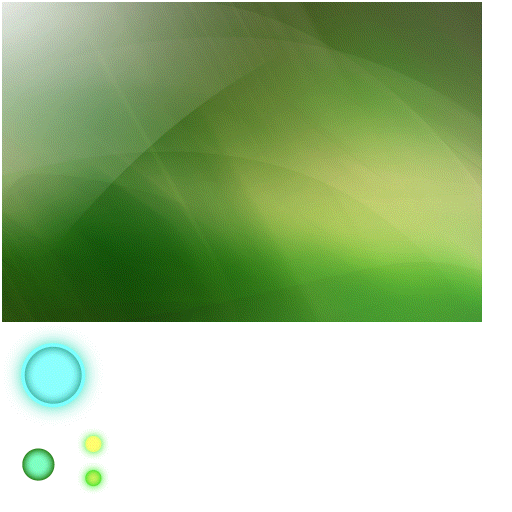
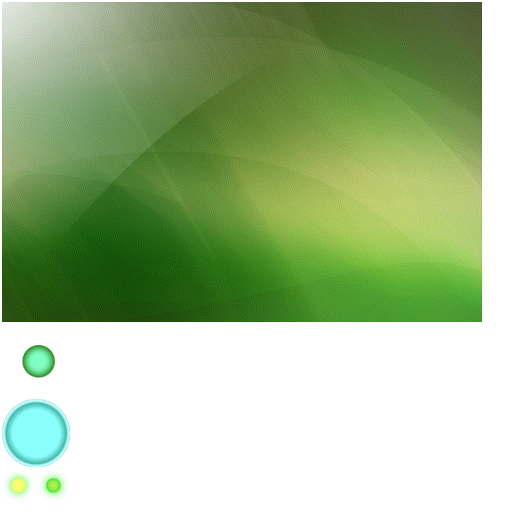
ExitCell class is ready. Есть ошибка с изменением цвета дочерней клетки при соприкосновении с выходом. Результат разный - с джоинтом и без

Changed region(s): [[0.0, 0.625, 0.2188, 0.9688]]

diff --git a/Gen/ChildCell.mm b/Gen/ChildCell.mm
@@ -10,6 +10,8 @@
 
 @implementation ChildCell
 
+GameCharacter *exitCellSprite;
+
 - (void)createBodyAtLocation:(CGPoint)location
 {
     b2BodyDef bodyDef;
@@ -23,7 +25,7 @@
     
     b2FixtureDef fixtureDef;
     b2CircleShape shape;
-    shape.m_radius = self.contentSize.width * 0.25f / PTM_RATIO;
+    shape.m_radius = self.contentSize.width * 0.22f / PTM_RATIO;
     fixtureDef.shape = &shape;
     fixtureDef.filter.categoryBits = kChildCellFilterCategory;
     fixtureDef.density = 8.0;
@@ -41,13 +43,38 @@
         return;
     }
     if ([self numberOfRunningActions] == 0) {
-        if (characterHealth <= 0) {
+        if (characterHealth <= 0 && characterState != kStateSoul) {
             [self changeState:kStateDead];
         }
     }
     
+    if (characterState == kStateBeforeSoul) {
+        if (body == nil) {
+            [self changeState:kStateSoul];
+        }
+    }
+    
     if (characterState == kStateSoul) {
-        self.markedForDestruction = YES;
+        if (body == nil && [self numberOfRunningActions] == 0) {
+            
+            // Уменьшает клетку
+            self.scale = 0.7;
+            
+            // Определяем следующую точку для произвольного движения внутри выхода
+            if (!exitCellSprite) {
+                exitCellSprite = (GameCharacter*) [[self parent] getChildByTag:kExitCellSpriteTagValue];
+            }
+            CGRect exitBoundingBox = [exitCellSprite adjustedBoudingBox];
+            int yPositionInExitCell = exitBoundingBox.origin.y + random() % (int)exitBoundingBox.size.height;
+            int xPositionInExitCell = exitBoundingBox.origin.x + random() % (int)exitBoundingBox.size.width;
+            
+            // Рэндомно двигаем клетки внутри выхода
+            id randomMove = [CCSequence actions:
+                              [CCMoveTo actionWithDuration:2.5f position:ccp(xPositionInExitCell, yPositionInExitCell)],
+                              [CCDelayTime actionWithDuration:0.1f],
+                              nil];
+            [self runAction:randomMove];
+        }
     }
 }
 
@@ -117,9 +144,29 @@
             break;
         }
             
-        case kStateSoul:
-            // Клетка ударилась об выход и должна уничтожить физ тело и сменить спрайт и дрыгаться внутри выхода
+        case kStateBeforeSoul:
+            self.markedForDestruction = YES;
             break;
+            
+        case kStateSoul:
+        {
+            // Клетка ударилась об выход и должна уничтожить физ тело и сменить спрайт и дрыгаться внутри выхода
+            [self setCharacterHealth:0];
+            
+            // 1. Меняем цвет у умерших клеток
+//            self.blendFunc = (ccBlendFunc) {GL_ZERO, GL_ONE_MINUS_SRC_ALPHA}; // Т.к. спрайт из batchnode, то применять нужно ко всему батчноду
+            self.color = ccc3(255, 0, 253);
+            self.opacity = 200;
+            
+            
+            // 2. Двигаем мертвые клетки (души) в центр выхода
+            int timeToMove = random() % 3 + 1;   // 1-4 sec
+            exitCellSprite = (GameCharacter*) [[self parent] getChildByTag:kExitCellSpriteTagValue];
+            CCEaseBounceIn *moveInsideElastic = [CCEaseBounceIn actionWithAction:[CCMoveTo actionWithDuration:timeToMove position:exitCellSprite.position]];
+            [self runAction:moveInsideElastic];
+
+            break;
+        }
             
         case kStateDead:
             // Клетка умирает от первого же прикосновения
@@ -128,6 +175,12 @@
         default:
             break;
     }
+}
+
+- (void)dealloc
+{
+    exitCellSprite = nil;
+    [super dealloc];
 }
 
 - (BOOL)mouseJointBegan

diff --git a/Gen/ContactListener.mm b/Gen/ContactListener.mm
@@ -25,10 +25,10 @@ void ContactListener::BeginContact(b2Contact* contact)
     
     // Обработка столкновениий ExitCell с ChildCell
     if (spriteA.gameObjectType == kExitCellType) {
-        [spriteB changeState:kStateSoul];
+        [spriteB changeState:kStateBeforeSoul];
     }
     else if (spriteB.gameObjectType == kExitCellType) {
-        [spriteA changeState:kStateSoul];
+        [spriteA changeState:kStateBeforeSoul];
     }
 }
 
@@ -38,10 +38,24 @@ void ContactListener::EndContact(b2Contact* contact)
     Box2DSprite *spriteB = (Box2DSprite*)contact->GetFixtureB()->GetBody()->GetUserData();
     
     // Обработка столкновениий сенсора ParentCell с ChildCell
-    if (spriteA.gameObjectType == kParentCellType) {
+    if (spriteA.gameObjectType == kParentCellType && spriteB.characterState != kStateBeforeSoul) {
         [spriteB changeState:kStateDisconnecting];
     }
-    else if (spriteB.gameObjectType == kParentCellType) {
+    else if (spriteB.gameObjectType == kParentCellType && spriteA.characterState != kStateBeforeSoul) {
         [spriteA changeState:kStateDisconnecting];
     }
+}
+
+void ContactListener::PreSolve(b2Contact* contact, const b2Manifold* oldManifold)
+{
+    Box2DSprite *spriteA = (Box2DSprite*)contact->GetFixtureA()->GetBody()->GetUserData();
+    Box2DSprite *spriteB = (Box2DSprite*)contact->GetFixtureB()->GetBody()->GetUserData();
+    
+    if (spriteA.gameObjectType == kExitCellType) {
+        contact->SetEnabled(false);
+    }
+    else if (spriteB.gameObjectType == kExitCellType) {
+        contact->SetEnabled(false);
+    }
+
 }

diff --git a/Gen/Scene1.mm b/Gen/Scene1.mm
@@ -40,20 +40,18 @@
         [background setPosition:screenCenter];
         [self addChild:background z:-2];
         
-        // add ChildCells
-        for (int i = 0; i < kChildCellStartNum; i++) {
-            [self createChildCellAtLocation:ccp(screenCenter.x + i * 5, screenCenter.y + i * 5)];
-        }
-        
         // add ParentCell (main hero will always be under the finger)
         parentCell = [[[ParentCell alloc] initWithWorld:world atLocation:ccp(100, 100)] autorelease];
         [sceneSpriteBatchNode addChild:parentCell z:10 tag:kParentCellSpriteTagValue];
         
         // add ExitCell (выход) в который нужно загнать клетки, чтобы их собрать и пройти уровень
         exitCell = [[[ExitCell alloc] initWithWorld:world atLocation:ccp(screenSize.width*0.9, screenSize.height*0.1)] autorelease];
-        [sceneSpriteBatchNode addChild:exitCell z:-1];
+        [sceneSpriteBatchNode addChild:exitCell z:-1 tag:kExitCellSpriteTagValue];
         
-        
+        // add ChildCells
+        for (int i = 0; i < kChildCellStartNum; i++) {
+            [self createChildCellAtLocation:ccp(screenCenter.x + i * 5, screenCenter.y + i * 5)];
+        }
     }
     return self;
 }

diff --git a/Gen/ExitCell.mm b/Gen/ExitCell.mm
@@ -21,7 +21,7 @@
     
     b2FixtureDef fixtureDef;
     b2CircleShape shape;
-    shape.m_radius = self.contentSize.width * 0.25 / PTM_RATIO;
+    shape.m_radius = [self boundingBox].size.width * 0.5 / PTM_RATIO;
     fixtureDef.shape = &shape;
     fixtureDef.filter.categoryBits = kExitCellFilterCategory;
     fixtureDef.filter.maskBits = kChildCellFilterCategory;
@@ -48,6 +48,19 @@
 - (void)changeState:(CharacterStates)newState
 {
     
+}
+
+- (CGRect)adjustedBoudingBox
+{
+    // Изменяет AABB до размеров прямоугольника умещающегося внутрь клетки. Нужно для движения ChildCell внутри выхода
+    CGRect exitBoundingBox = [self boundingBox];
+    float offset = exitBoundingBox.size.width * 0.22f;
+    float cropAmount = exitBoundingBox.size.width * 0.4f;
+    
+    exitBoundingBox = CGRectMake(exitBoundingBox.origin.x + offset, exitBoundingBox.origin.y + offset, exitBoundingBox.size.width - cropAmount, exitBoundingBox.size.height - cropAmount);
+
+    return exitBoundingBox;
+//    return self.boundingBox;
 }
 
 - (BOOL)mouseJointBegan

diff --git a/Gen/Box2DLayer.mm b/Gen/Box2DLayer.mm
@@ -89,6 +89,8 @@
         
         // enable events
         self.isTouchEnabled = YES;
+        // seed randomizer
+        srandom(time(NULL));
         
         bodiesToDestroy = [[NSMutableArray alloc] init];
         
@@ -175,13 +177,14 @@
         }
     }
     
+    // Уничтожаем тела клеток попавших в опасность или в выход
+    [self destroyBodies];
+    
     // Force update all objects
     CCArray *listOfGameObjects = [sceneSpriteBatchNode children];
     for (GameCharacter *tempChar in listOfGameObjects) {
         [tempChar updateStateWithDeltaTime:dt andListOfGameObjects:listOfGameObjects];
     }
-    
-    [self destroyBodies];
 }
 
 - (void)markBodyForDestruction:(Box2DSprite *)obj
@@ -196,6 +199,7 @@
         if (obj && obj.body && obj.markedForDestruction) {
             obj.body->SetTransform(b2Vec2(0,0), 0);
             world->DestroyBody(obj.body);
+            obj.body = nil;
         }
     }
     [bodiesToDestroy removeAllObjects];

diff --git a/Gen/CommonProtocols.h b/Gen/CommonProtocols.h
@@ -16,6 +16,7 @@ typedef enum {
     kStateConnecting,       // ChildCell при входе в зону сенсора ParentCell
     kStateConnected,        // ChildCell в зоне действия сенсора, уже с задействованными джойнтами
     kStateDisconnecting,    // ChildCell при выходе из зоны сенсора. Следующее состояние kStateIdle уже без джоинтов
+    kStateBeforeSoul,       // ChildCell при соприкосновении с выходом на мгновение принимает это состояние чтобы отбросить джоинты
     kStateSoul              // ChildCell которые добрались до выхода и плавают в нем, но не выходят
 } CharacterStates;
 

diff --git a/Gen/ParentCell.mm b/Gen/ParentCell.mm
@@ -71,7 +71,7 @@
                 disJointDef.localAnchorB.SetZero();
                 disJointDef.frequencyHz = 0.25f;
                 disJointDef.dampingRatio = 0.4f;
-                disJointDef.length = self.contentSize.width * 0.7 / PTM_RATIO;
+                disJointDef.length = self.contentSize.width * 0.6 / PTM_RATIO;
                 disJointDef.collideConnected = TRUE;
                 world->CreateJoint(&disJointDef);
             }

diff --git a/Gen/Constants.h b/Gen/Constants.h
@@ -11,6 +11,7 @@
 #define kChildCellStartNum 30
 #define kParentCellSpriteTagValue 10
 #define kRedCellDamage 100
+#define kExitCellSpriteTagValue 20
 
 // Collision Filter Categories
 typedef enum {
@@ -49,7 +50,7 @@ typedef enum {
 } GameManagerSoundState;
 
 // Turn ON=1 or OFF=0 DEBUG DRAW
-#define DEBUG_DRAW 1
+#define DEBUG_DRAW 0
 
 // Audio Items
 #define AUDIO_MAX_WAITTIME 150

diff --git a/Gen/ContactListener.h b/Gen/ContactListener.h
@@ -13,4 +13,5 @@ class ContactListener : public b2ContactListener
 private:
 	void BeginContact(b2Contact* contact);
 	void EndContact(b2Contact* contact);
+    void PreSolve(b2Contact* contact, const b2Manifold* oldManifold);
 };
